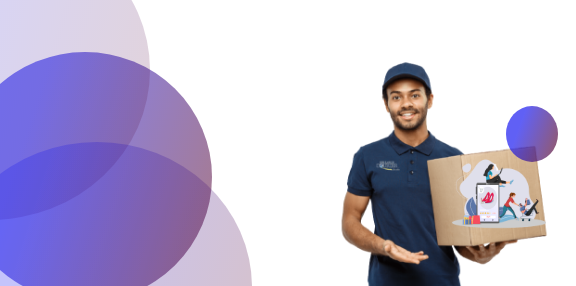
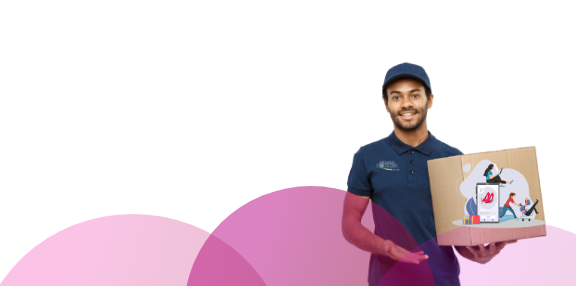
add_footer

diff --git a/index.html b/index.html
@@ -125,6 +125,99 @@
     </section>
 </section>
 
+
+
+
+
+
+
+<!-- section-3 about-->
+  <section id="about">
+    <div class="about-section wrapper">
+      <div class="container">
+        <div class="row align-items-center">
+          <div class="col-lg-7 col-md-12 mb-lg-0 mb-5">
+            <div class="card border-0">
+              <img src="images/img/img-2.jpg" class="img-fluid">
+            </div>
+          </div>
+          <div class="col-lg-5 col-md-12 text-sec">
+            <h2>We pride ourselves on making real food from the best ingredients.</h2>
+            <p>Lorem ipsum dolor sit amet, consectetur adipiscing elit. Etiam et purus a odio finibus bibendum in sit
+              amet leo. Mauris feugiat erat tellus.</p>
+            <button class="main-btn mt-4">Learn More</button>
+          </div>
+        </div>
+      </div>
+      <div class="container food-type">
+        <div class="row align-items-center">
+          <div class="col-lg-5 col-md-12 text-sec mb-lg-0 mb-5">
+            <h2>We make everything by hand with the best possible ingredients.</h2>
+            <p>Lorem ipsum dolor sit amet, consectetur adipiscing elit. Etiam et purus a odio finibus bibendum in sit
+              amet leo. Mauris feugiat erat tellus.Far far away, behind the word mountains, far from the countries
+              Vokalia and Consonantia, there live the blind texts.</p>
+            <ul class="list-unstyled py-3">
+              <li>Etiam sed dolor ac diam volutpat.</li>
+              <li>Erat volutpat aliquet imperdiet.</li>
+              <li>purus a odio finibus bibendum.</li>
+            </ul>
+            <button class="main-btn mt-4">Learn More</button>
+          </div>
+          <div class="col-lg-7 col-md-12">
+            <div class="card border-0">
+              <img src="images/img/img-1.jpg" class="img-fluid">
+            </div>
+          </div>
+        </div>
+      </div>
+    </div>
+  </section>
+
+
+
+
+
+
+
+
+
+  <!-- section-6 footer-->
+  <footer id="footer">
+    <div class="footer pt-5">
+      <div class="container">
+        <div class="row">
+          <div class="col-md-6 text-center">
+            <div class="footer-social pb-4 text-center">
+              <a href="#"><i class="fab fa-facebook-f"></i></a>
+              <a href="#"><i class="fab fa-twitter"></i></a>
+              <a href="#"><i class="fab fa-youtube"></i></a>
+              <a href="#"><i class="fab fa-dribbble"></i></a>
+              <a href="#"><i class="fab fa-linkedin"></i></a>
+              <a href="#"><i class="fab fa-instagram"></i></a>
+            </div>
+          </div>
+          <div class="col-md-6">
+            <form class="newsletter">
+              <div class="d-flex">
+                <input class="form-control" placeholder="Email Address Here" type="email">
+                <button class="main-btn" type="submit">Subscribe</button>
+              </div>
+            </form>
+          </div>
+          <div class="col-sm-12">
+            <div class="footer-copy">
+              <div class="copy-right text-center pt-5">
+                <p class="text-light">© 2021. All rights reserved.</p>
+              </div>
+            </div>
+          </div>
+        </div>
+      </div>
+    </div>
+  </footer>
+
+
+
 <!--js-->
 <script src="https://cdn.jsdelivr.net/npm/bootstrap@5.1.1/dist/js/bootstrap.bundle.min.js"
         integrity="sha384-/bQdsTh/da6pkI1MST/rWKFNjaCP5gBSY4sEBT38Q/9RBh9AH40zEOg7Hlq2THRZ"

diff --git a/css/style.css b/css/style.css
@@ -33,7 +33,7 @@ ol {
 
 :root {
     --primary-color: #ef49b6;
-    --secondry-color: #481532;
+    --secondry-color: #d43232;
     --third-color: #f98169;
     --white-color: #ffffff;
     --text-color: #b0b0b0;
@@ -80,21 +80,21 @@ h1 {
     text-shadow: 1px 0 6px #000;
 }
 
-/*h1 span {*/
-/*    color: var(--primary-color);*/
-/*}*/
+h1 span {
+    color: var(--white-color);
+}
 
 h2 {
     font-weight: 700;
     font-size: 2rem;
     text-transform: capitalize;
     font-family: var(--secondry-font);
-    color: var(--secondry-color);
+    color: var(--white-color);
     line-height: 3rem;
 }
 
 h4 {
-    color: var(--secondry-color);
+    color: var(--text-color);
     font-family: var(--secondry-font);
     text-transform: capitalize;
     font-size: 1.125rem;
@@ -113,7 +113,7 @@ h5 {
 
 p {
     font-size: 1rem;
-    color: var(--secondry-color);
+    color: var(--text-color);
     font-weight: 400;
     line-height: 1.75rem;
     letter-spacing: 1px;
@@ -123,9 +123,9 @@ p {
     display: inline-block;
     padding: 0.625rem 1.875rem;
     line-height: 1.5625rem;
-    background-color: var(--primary-color);
-    border: 0.1875rem solid var(--primary-color);
-    color: var(--black-color);
+    background-color: var(--secondry-color);
+    border: 0.1875rem solid var(--secondry-color);
+    color: var(--white-color);
     font-size: 0.9375rem;
     font-weight: 600;
     text-transform: capitalize;
@@ -141,13 +141,44 @@ p {
 
 .main-btn:hover {
     background-color: transparent;
-    color: var(--primary-color);
+    color: var(--black-color);
 }
 
 .wrapper {
     padding-top: 4.25rem;
     padding-bottom: 4.25rem;
 }
+
+
+
+
+.about-section{
+  background: #EEE3E3;
+}
+.about-section .card,
+.about-section .card img{
+  border-radius: 0.625rem;
+}
+.about-section .text-sec{
+  padding-left:2rem;
+}
+
+
+
+
+
+.footer{
+  background: var(--black-color);
+}
+.footer .footer-social a i{
+  font-size: 1.5rem;
+  color:var(--white-color);
+  padding:0 1rem;
+}
+.footer .footer-social a:hover i{
+  color:var(--primary-color);
+}
+
 
 .text-content {
     width: 70%;
@@ -182,7 +213,7 @@ p {
     font-size: 1.2rem;
     font-weight: 600;
     text-transform: capitalize;
-    color: var(--primary-color);
+    color: var(--secondry-color);
     letter-spacing: 1px;
 }
 
@@ -190,7 +221,7 @@ p {
 
 .nav-link:hover,
 .nav-link.active {
-    color: var(--secondry-color) !important;
+    color: var(--primary-color) !important;
 }
 
 .navigation-wrap .main-btn {
@@ -202,7 +233,7 @@ p {
 /* Change navbar styling on scroll */
 .navigation-wrap.scroll-on {
     position: fixed;
-    background-color: #929090;
+    background-color: var(--white-color);
     top: 0;
     left: 0;
     width: 100%;
@@ -231,7 +262,7 @@ p {
 
 /*count*/
 .counter-section{
-    background: var(--primary-color);
+    background: var(--secondry-color);
     padding:2.5rem 0;
 
 }

diff --git a/js/main.js b/js/main.js
@@ -4,8 +4,8 @@ document.addEventListener("DOMContentLoaded", () => {
     function counter(id, start, end, duration) {
         let obj = document.getElementById(id),
             current = start,
-       range = end - start,
-         increment = end > start ? 1 : -1,
+            range = end - start,
+            increment = end > start ? 1 : -1,
             step = Math.abs(Math.floor(duration / range)),
             timer = setInterval(() => {
                 current += increment;
@@ -22,3 +22,26 @@ document.addEventListener("DOMContentLoaded", () => {
     counter("count3", 2000, 1287, 3000);
     counter("count4", 2000, 1287, 3000);
 });
+
+
+//nav
+
+let nav = document.querySelector(".navigation-wrap");
+window.onscroll = function (){
+    if(document.documentElement.scrollTop > 20){
+        nav.classList.add("scroll-on");
+    }else{
+        nav.classList.remove("scroll-on");
+    }
+}
+
+// nav hide
+let navBar = document.querySelectorAll(".nav-link");
+let navCollapse = document.querySelector(".navbar-collapse.collapse");
+navBar.forEach(function (a){
+    a.addEventListener("click", function(){
+        navCollapse.classList.remove("show");
+    })
+})
+
+

diff --git a/css/responsive_style.css b/css/responsive_style.css
@@ -1,0 +1,47 @@
+@media (max-width: 1024px){
+
+
+}
+
+
+@media (max-width: 991px){
+  .text-content{
+      width: 100%;
+  }
+
+    .navigation-wrap .navbar-brand img{
+        height: 3.8125rem;
+    }
+
+    .navigation-wrap{
+        text-align: center;
+        background-color: var(--white-color);
+    }
+
+    .navigation-wrap .nav-link{
+        line-height: 1.875rem;
+    }
+    /*banner*/
+    .top-banner{
+        padding: 9.375rem 0 9.375rem;
+    }
+
+}
+
+@media (max-width: 767px){
+/*phone size*/
+/*custom css*/
+    h1{
+        front-size: 2.8rem;
+
+    }
+    h2{
+        font-size: 2rem;
+         line-height: 2.0625;
+    }
+
+    /*top banner*/
+    .top-banner{
+        padding: 10.875rem 0 9.375rem;
+    }
+}
